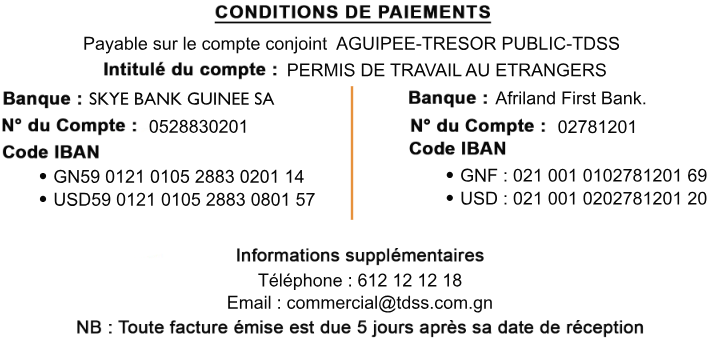
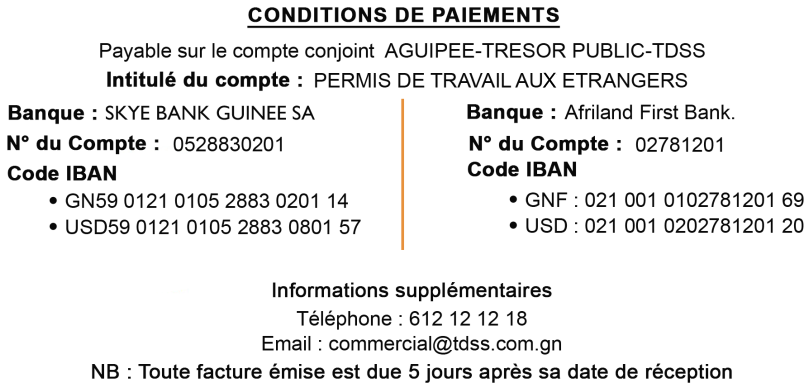
modificaiton de la facture pour ajouter le montant en lettre et corriger les informations bancaires

diff --git a/apps/paiement/printviews.py b/apps/paiement/printviews.py
@@ -11,6 +11,8 @@ from reportlab.lib.utils import simpleSplit
 from reportlab.graphics.shapes import Drawing, Line, String
 from reportlab.lib.enums import TA_JUSTIFY, TA_CENTER,TA_LEFT,TA_RIGHT
 
+from num2words import num2words
+
 import qrcode
 
 from .models import Devise, Facture, Payer, Payment, Permit, Employee, Declaration, JobCategory, Job
@@ -371,6 +373,17 @@ def bill_receipt_view(request, bill_id):
         'Client': f"{client.name}",
         'Montant': f"{facture.amount} {facture.devise.sign}"
     }
+    pdf.setFont("Helvetica-Bold", 10)  #mettre en gras
+    amount = f"{num2words(facture.amount, False, 'fr')} francs guinéens"
+    pdf.drawString(
+        50, 425,
+        f"Arrêté la présente facture à la somme de: {amount.title()}")
+    pdf.line(50, 422, 245, 422)
+    
+    # pdf.drawString(
+    #     235, 425, f"{num2words(facture.amount, False, 'fr')} francs guinéens")
+    pdf.setFont("Helvetica", 12)  #  remettre sur font de depart
+
     qr = qrcode.QRCode(error_correction=qrcode.ERROR_CORRECT_L, border=4)
     qr.add_data(qr_data)
     qr.make(fit=True)

diff --git a/apps/paiement/templatetags/filters.py b/apps/paiement/templatetags/filters.py
@@ -1,0 +1,11 @@
+from django import template
+from num2words import num2words
+
+register = template.Library()
+
+@register.filter
+def int_to_words(value):
+    try:
+        return num2words(value)
+    except (TypeError, ValueError):
+        return value
